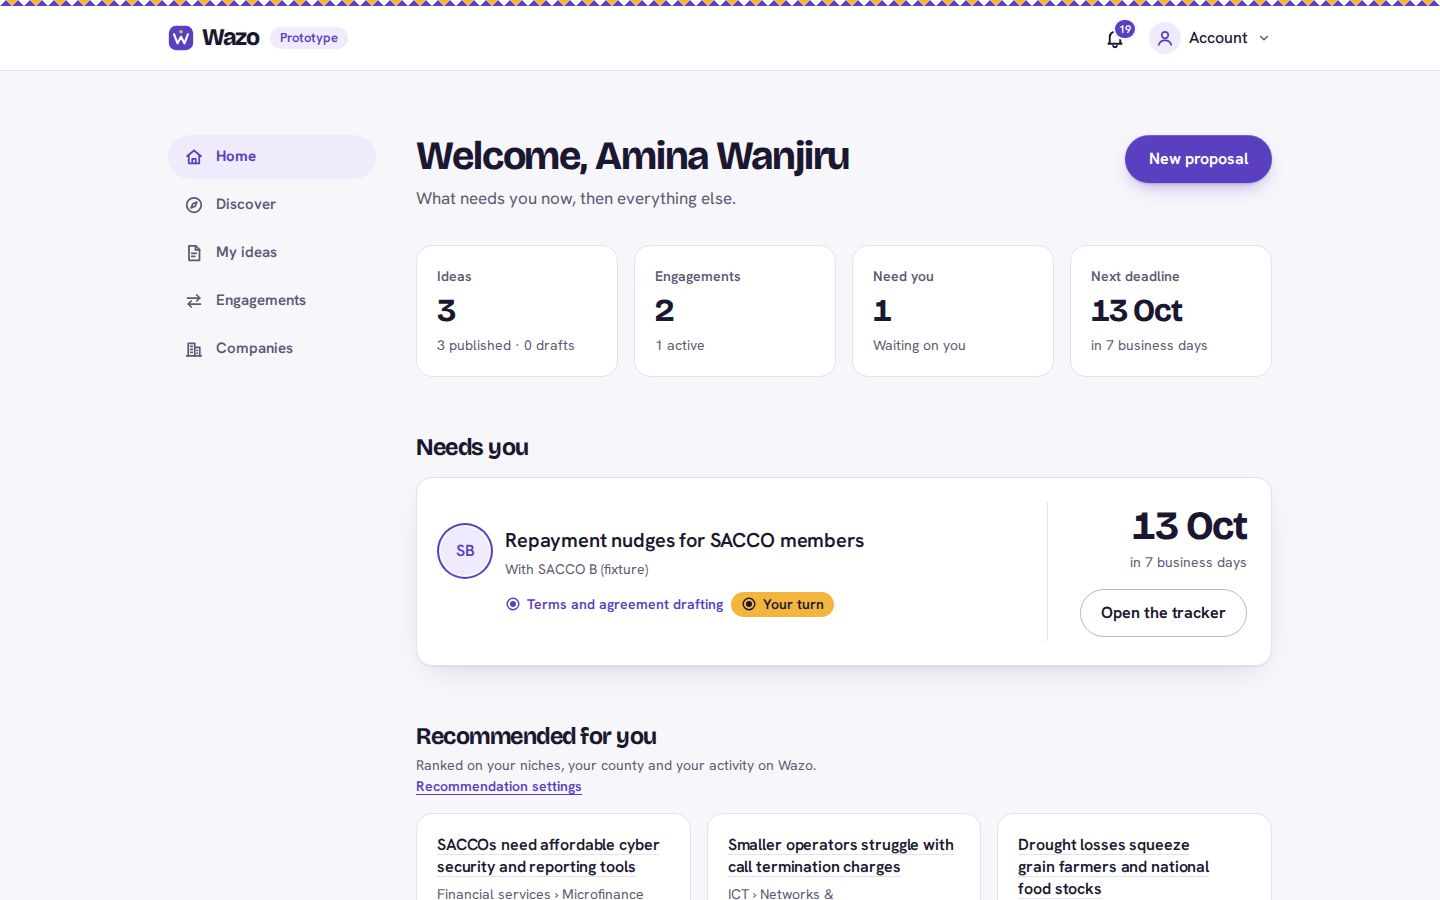
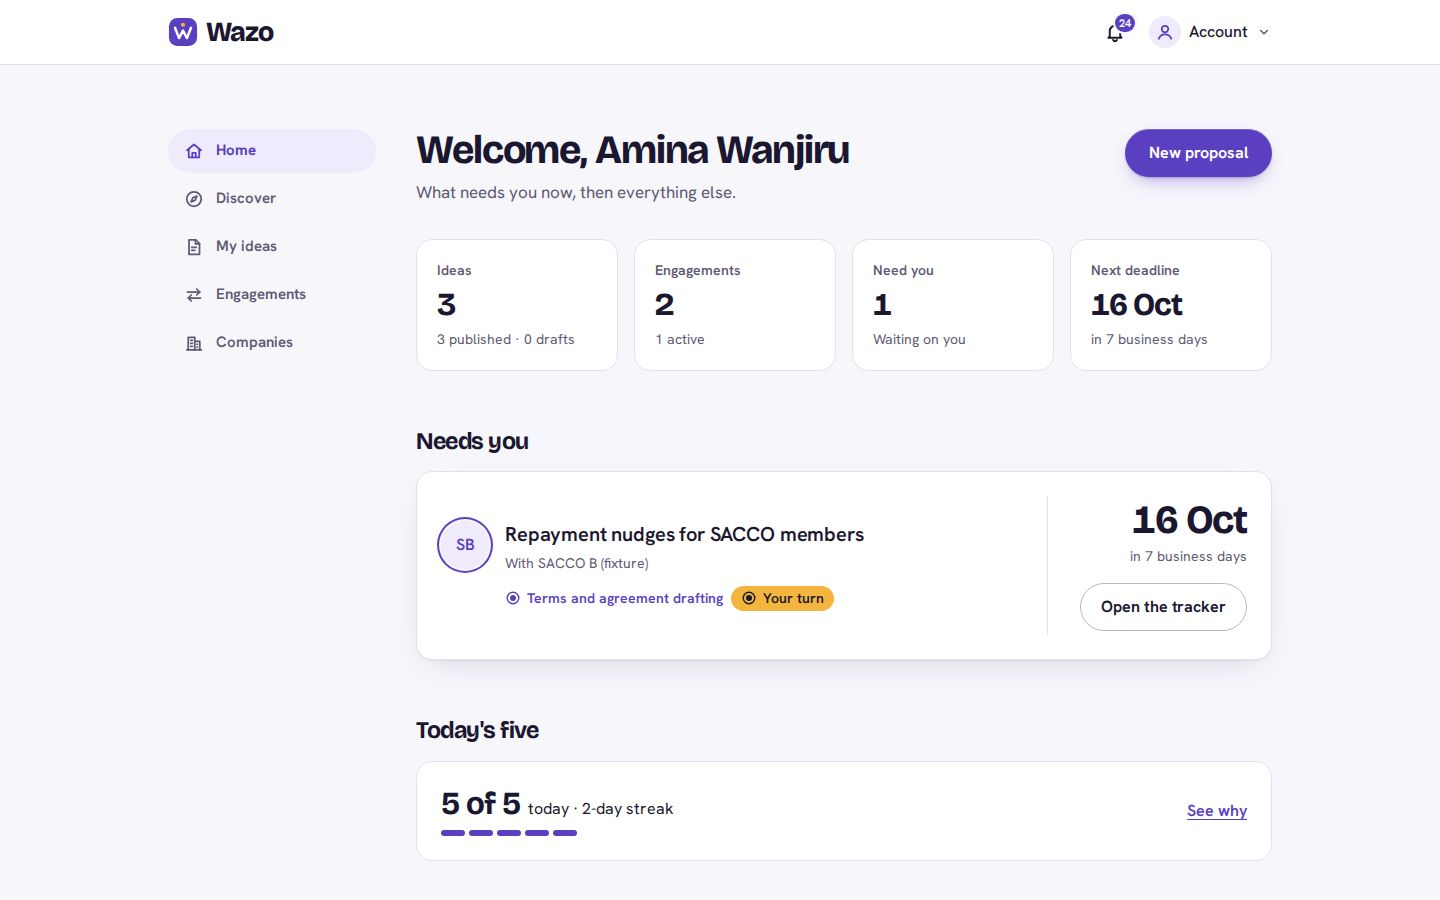
docs(platform): P23-2 report with the gate results; the README screenshot set and the P23 design shots refreshed
Claude-Session: https://claude.ai/code/session_01Ja6kutgR3oQMBCanwEfvpC

diff --git a/docs/platform/PROGRESS.md b/docs/platform/PROGRESS.md
@@ -391,7 +391,8 @@ API's 5 s keep-alive against the Next.js proxy), narrowed at its cause with the 
 structural items are D-51. The final M2 report with the quality scorecard is below ("M2 report"). The demo stack is
 stopped since a container restart: `make demo-reset` before showing it.
 
-**Open branches** (2026-10-07, session 6): none. P23-1 merged as `4883047` on the owner's instruction (merge commit of
+**Open branches** (2026-10-07, session 6): `claude/fervent-mccarthy-0zyqn2` carries P23-2 (gated, waiting on the owner's
+word) and P23-3 (in build). P23-1 merged as `4883047` on the owner's instruction (merge commit of
 `claude/fervent-mccarthy-0zyqn2` at `68d5826`); integration head before it `e651622`. P22-C merged as `3316909` on the owner's instruction (merge commit of
 `claude/fervent-mccarthy-0zyqn2` at `aecc694`); integration head before it `efb9326`. Earlier the same day: P22-A and
 P22-B merged together as `ed0bff5` (at `2ace097`); integration head before it `feb01e9`.
@@ -1212,6 +1213,83 @@ old jobs are pruned; trend topic slugs are shown raw on the admin Trends table.
 **For the owner.** D-62 (the collaborator credit wording) still blocks P22-C; D-56 (npm audit) and the CI runner
 question stay open; the new strings under `_meta.reviewP22b` for copy and Swahili review; the trend list's licence
 check before release.
+
+### P23-2 report (2026-10-07): the sliding tour with real icons, the clean top bar, the landing craft (D-65)
+
+**Why.** The owner, looking at the P23-1 build on their machine: make the first-login tour dynamic ("something
+sliding, not just clicking Next") with real icons instead of the drawn signpost; make the top bar's Wazo come out
+clear, without the word Prototype and without the colour lining; elegant and captivating, like a real frontend
+engineer's work; the landing page like a real product that can sell the idea to funders. Card: `tasks/P23.md` section
+"P23-2" with the orchestrator's "Defaults taken"; D-65 records the badge and the band leaving the top bar.
+
+**What was built** (branch `claude/fervent-mccarthy-0zyqn2`, one worktree merge `0e7b564`, 17 commits):
+
+- **Icons**: Lucide v0.544.0 (ISC), downloaded by the orchestrator and vendored as React components for the eleven
+  icons used (`components/icons/lucide.tsx`, every path matching upstream), with `frontend/THIRD_PARTY_NOTICES.md`;
+  no package, no CDN, no icon font.
+- **The tour** (`components/tour/`): still D-52's three non-modal steps in the page's flow, skippable from the first,
+  remembered, with the page's one primary action untouched; now a slide show. Each step is a composed scene rendered
+  on the server (a 112 px petal disc with a soft radial light, a hairline ring, the 72 px icon and the saffron spark
+  that draws in on arrival; beside it a miniature of the screen the step introduces, turned 2°, with the night-tinted
+  shadow on its lit part only: the "Need you" tile, the certificate with its seal, the stepper with "Your turn"; for
+  organisations the arriving inbox row, the lock over a teaser, the stepper). Steps slide sideways on a 6-second
+  cadence with a three-segment progress line whose segments are the step buttons; it pauses while hovered, touched,
+  keyboard-focused or hidden, stops at the last step, and offers Back, Next, Pause (aria-pressed, the icon shows the
+  state), Skip and Done, swipe on touch and the arrow keys; a polite live region announces each step once; reduced
+  motion crossfades and never auto-advances. The panel's height is fixed, so the page under it never moves (CLS
+  0.0004 over 15 s). It adds 447 B to Home.
+- **The top bar** (`TopBarBase.tsx`): the Prototype badge and the lattice band gone (D-65; the key
+  `shell.prototypeBadge` removed from both locales), the wordmark at 30 px on a white band with a hairline, 65 px
+  tall, not sticky, at most one control on the right. The P20 design document's diagrams carry a D-65 note.
+- **The landing** (`components/landing/*`, `globals.css`): a 2.4-second CSS story on load (the tracker card advances
+  from Contact and NDA to Agreement, "Your turn" pulses once, the scout match slides in, the seal draws; wipes and
+  slides rather than fades so every frame passes axe; one keyframe per part so a resize replays nothing; in place
+  under reduced motion); "How it works" and the five-stage line reveal as they scroll into view
+  (`animation-timeline: view(block 0px)` behind `@supports`, opaque once wholly on screen, plain where unsupported);
+  a four-item trust strip under the hero from the product's own truths (every version timestamped, full details
+  under one Evaluation NDA, proposals go only to verified organisations, one tracker for both sides); the copy
+  otherwise unchanged; new strings under `_meta.reviewP23b` `[[COPY-REVIEW]]`/`[[SW-REVIEW]]`, en/sw parity.
+- **Tests**: vitest 1,931 (new: the slide show's timers, holds, focus hand-offs, reduced motion, the scenes, the
+  landing, the top bar); `e2e/tour.spec.ts` on Playwright's paused clock (advance, Pause holds, Back, Skip
+  remembers; mobile-360 and desktop); `e2e/smoke.spec.ts` scrolls "How it works" through and asserts every item
+  opaque, with the strict axe pass run under reduced motion only when an item is caught mid-reveal.
+
+**Reviews.** reviewer CHANGES_REQUIRED (two MAJORs: focus fell to body when Pause hid on the last step; the
+scroll-reveal left "How it works" invisible to axe and to full-page captures; two MINORs: the dwell clock drifted
+after Back, a mouse click's focus hold stopped the show for good) → the reveal still faded at rest because `view()`
+followed the page's scroll padding → PASS on `view(block 0px)`. ux-reviewer CHANGES_REQUIRED (one MAJOR: the same
+reveal, measured at 0.66 opacity on fully visible text at 375; three MINORs: the hero wipe replayed across 1024 px,
+the trust line overclaimed, the Pause tooltip disagreed with its name) → the same remaining item → PASS (all eight
+items at opacity 1 once wholly on screen at 375×800, 1440×900 and 360×640; no replay; axe 0 at both widths, light and
+dark, with and without reduced motion).
+
+**Gate.** Playwright on the compose stack rebuilt from the merged branch `0e7b564` (mobile 360 and desktop, axe; the
+tour spec on a paused clock, the smoke spec scrolling "How it works" through): 214 passed, 4 skipped, 0 failed (32
+min); the test-clock scenarios 4/4; `demo.py reset` and `e2e-env` clean; vectors reseeded (1/4 profiles, 9/9
+problems). JS budgets: `/dev` 144,486 B (the tour +447 B), `/dev/discover` 147,721 B, `/settings/notifications`
+144,899 B, `/` 139,503 B, `/org` 144,022 B, `/login` 148,059 B of 150,000. Lighthouse (mobile default, Slow 4G):
+`/` light 97–99 / 100, LCP 2.2–2.6 s; dark 97 / 100, 2.5 s; `/dev` 95–99 / 100, 2.2–2.7 s (the LCP element is the
+page title; the same page without the tour reads the same, D-53's band). CodeQL run 285 on `0e7b564`: exactly the
+eight D-42 findings (one JavaScript, seven Python). `pr.yml` run 350 on `0e7b564`: frontend, Playwright with the
+clock scenarios, the demo story, hygiene and both legacy jobs green; scanners red on `npm audit` only (D-56); the
+backend job cancelled at its 35-minute limit (the twelfth time; P23 item 10). The recorded walkthrough and the P23
+design-shot set (`docs/demo/screenshots/p23/`) were refreshed from the reset stack after the gate.
+
+**Deviations and residuals.**
+- D-65 taken on the owner's instruction: the "Prototype" badge and the lattice band left the top bar; the footer's
+  sentence and the "Seeded example" labels keep the honesty where the data is.
+- The hero's LCP sits at 2.5–2.6 s on some runs (D-53's band); the P23-2 animations are CSS only and did not move it.
+- The tour panel is 451 px tall at 360, so Home's primary action sits just above the tab bar on the first visit
+  (the ux-reviewer's note; acceptable, one screen).
+- Copy and Swahili review of `_meta.reviewP23b` (the tour's Back/Pause/step labels, the trust strip's four lines) is
+  the owner's.
+- The implementer's commits carry the Opus 5.5 attribution line (P23 item 9).
+
+**Status.** Gate reached: reviewer and ux-reviewer PASS, the local gate green, CI as above; the README's screenshot set
+and the walkthrough video re-recorded from the reset stack; `docs/demo/screenshots/p23/` holds the landing, Home, the
+tour and the organisation Home at 375 and 1440, light and dark. `claude/fervent-mccarthy-0zyqn2` is ready to merge into
+`claude/eloquent-hypatia-aa3577` on the owner's word; P23-3 (the deadline countdown) is in build on the same branch.
+
 
 ### P23-1 report (2026-10-07): profile and problem embeddings for real (D-63, D-64)
 

diff --git a/docs/platform/DECISIONS-NEEDED.md b/docs/platform/DECISIONS-NEEDED.md
@@ -479,7 +479,7 @@ The full entries (why, options, default, what they blocked) are kept below for t
   footer's sentence ("A prototype: every figure on this site is seeded example data."), the "Seeded example" and
   "Illustrative example" labels on demo data, and the help page's wording. The lattice keeps framing the hero's foot,
   the certificate sheet and the footer.
-- Status: P23-2 builds it; the P20 design document's top-bar diagram is updated in the same change.
+- Status: built in P23-2 (`0e7b564`, gated 2026-10-07); the P20 design document's top-bar diagrams carry the note.
 
 ### D-64 · The "Similar to your profile" chip floor and f1's calibration per embedding model (P23-1; REQ-PERS-01, REQ-EMB-01)
 - Why: with real vectors, f1 is the cosine between the developer's profile and the card. Cosine has a model-specific baseline: unrelated texts sit near 0 under the word-based fake (dev, CI, the demo) but at roughly 0.3–0.5 under bge-m3 (ADR-005), where "related" starts around 0.6. The P23-1 review found the chip offered for any cosine above zero, which with bge-m3 would label nearly every card "Similar to your profile", and f1's contribution would lift every vector-carrying card above the keyword-path cards in a mixed list.

diff --git a/docs/platform/tasks/P23.md b/docs/platform/tasks/P23.md
@@ -52,6 +52,9 @@ share; the explanation chip says which; the determinism tests pin fake vectors. 
 
 ## P23-2 — The owner's screen brief: the tour, the top bar, the landing (2026-10-07; REQ-UX-01..04, D-52, D-55, D-65)
 
+Status: built, reviewed (reviewer and ux-reviewer PASS) and gated 2026-10-07; merged into the feature branch as `0e7b564`;
+see PROGRESS.md "P23-2 report".
+
 The owner, looking at the P23-1 build on their machine: "make the first-login tour dynamic, something sliding, not
 just clicking Next; real icons from the internet instead of the drawn one; the top bar's Wazo should come out clear,
 remove the word Prototype and the colour linings; make it elegant and captivating like a real frontend engineer
